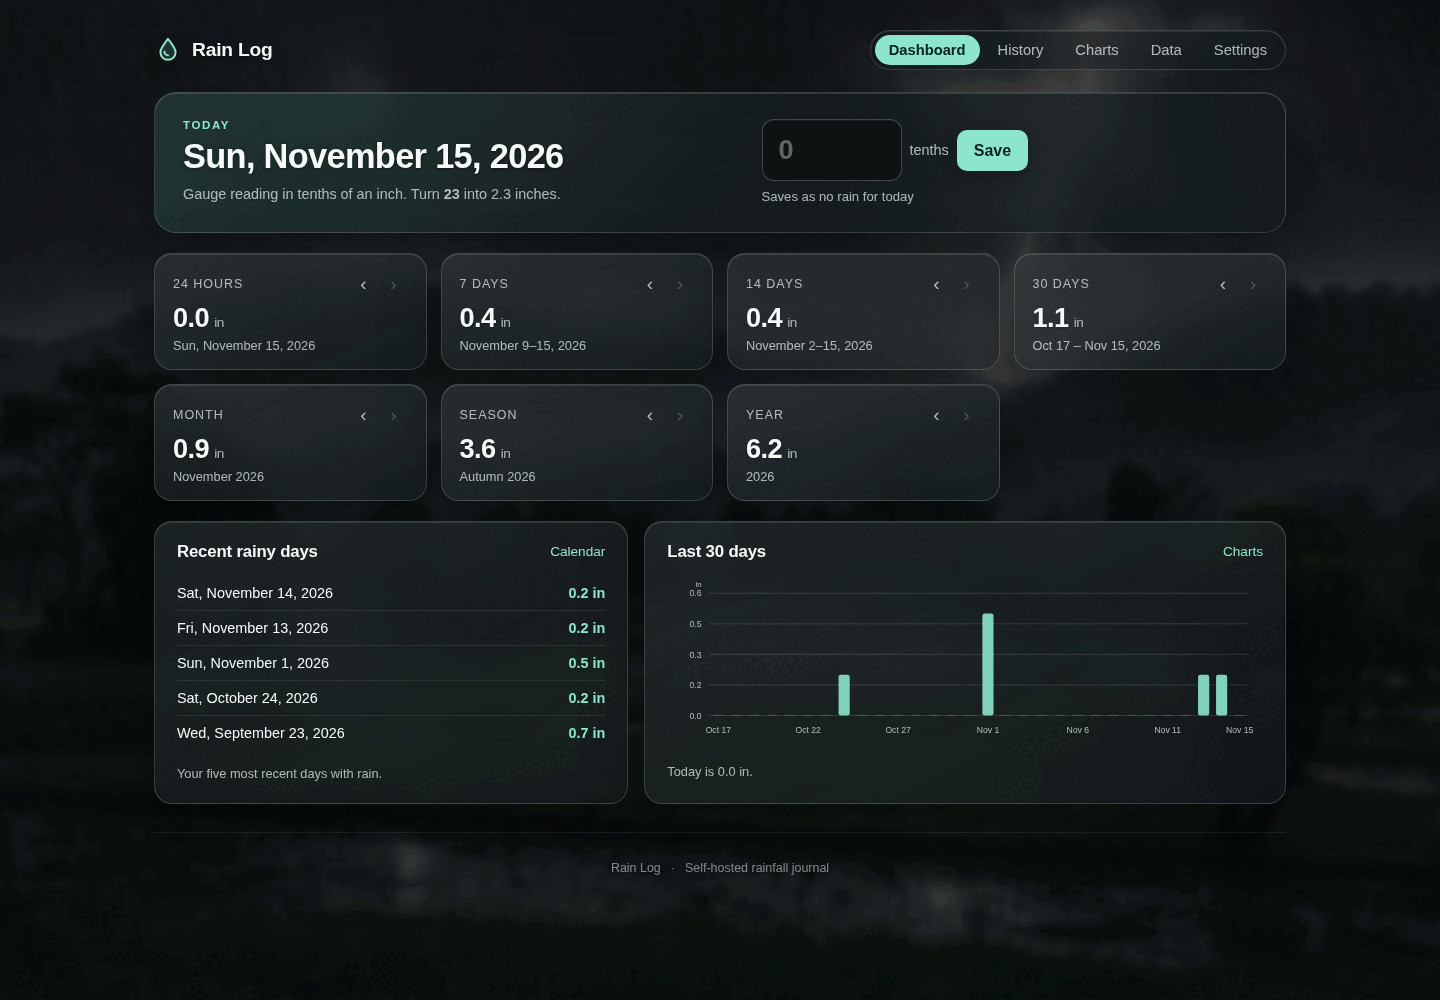
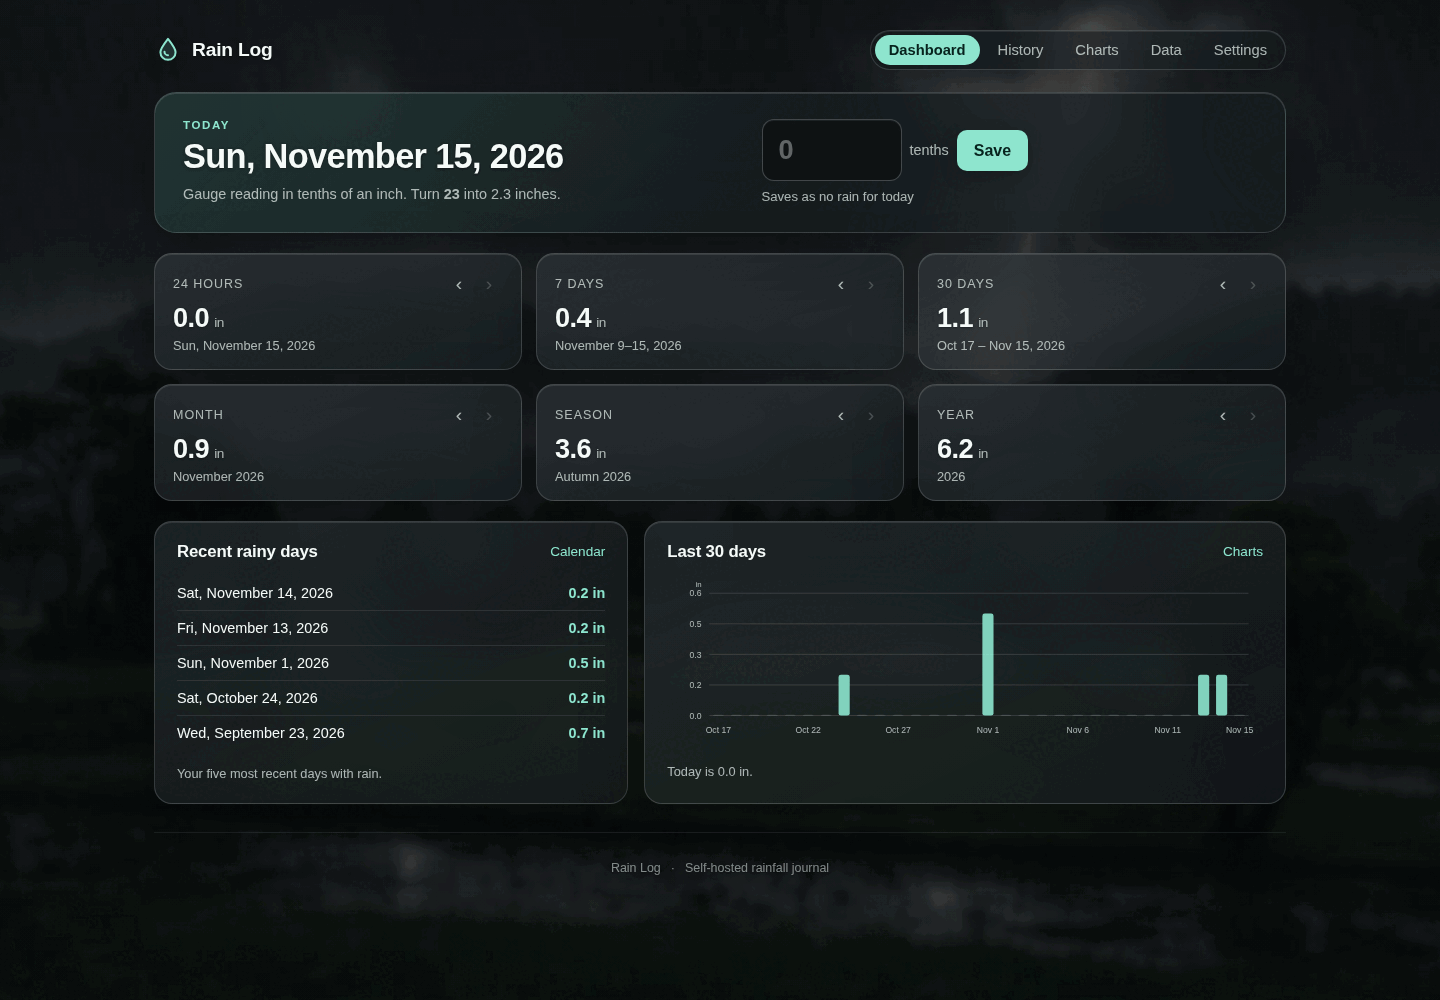
Default to one dashboard window and balance the stats grid
- Default dashboard windows are now a single 30-day window, so the
  dashboard shows two even rows of three cards
- Dashboard totals use a three-column grid on desktop and two columns
  on phones
- Report a 1.0.0 version for local compose builds

diff --git a/web/src/pages/Dashboard.tsx b/web/src/pages/Dashboard.tsx
@@ -38,7 +38,7 @@ export function Dashboard() {
   const state = stateQuery.data
   const entries = useMemo(() => state?.entries ?? {}, [state])
   const units = state?.prefs.units ?? 'in'
-  const windows = state?.prefs.windows ?? [14, 30]
+  const windows = state?.prefs.windows ?? [30]
   const today = dateKey(new Date())
   const currentToday = entries[today]
   const { draft, setDraft, inputRef } = useEntryDraft(today, currentToday)

diff --git a/web/src/pages/Settings.tsx b/web/src/pages/Settings.tsx
@@ -24,7 +24,7 @@ export function Settings() {
   const { notify } = useToast()
 
   const [units, setUnits] = useState<Units>('in')
-  const [windows, setWindows] = useState<string[]>(['14', '30'])
+  const [windows, setWindows] = useState<string[]>(['30'])
   const [locality, setLocality] = useState('')
   const [initialized, setInitialized] = useState(false)
   const [climateInitialized, setClimateInitialized] = useState(false)

diff --git a/server/test/api.test.ts b/server/test/api.test.ts
@@ -58,7 +58,7 @@ describe('API', () => {
     const state = await getState()
     expect(state.entries).toEqual({})
     expect(state.parseError).toBeNull()
-    expect(state.prefs).toEqual({ version: 1, units: 'in', windows: [14, 30] })
+    expect(state.prefs).toEqual({ version: 1, units: 'in', windows: [30] })
     expect(state.conflicts).toEqual([])
   })
 

diff --git a/server/src/storage.ts b/server/src/storage.ts
@@ -145,7 +145,7 @@ export class NotFoundError extends Error {
   }
 }
 
-export const DEFAULT_PREFS: Preferences = { version: 1, units: 'in', windows: [14, 30] }
+export const DEFAULT_PREFS: Preferences = { version: 1, units: 'in', windows: [30] }
 
 const prefsSchema = z.object({
   version: z.literal(1).optional(),

diff --git a/web/src/styles.css b/web/src/styles.css
@@ -385,7 +385,7 @@ textarea:focus-visible {
 
 .stats-grid {
   display: grid;
-  grid-template-columns: repeat(4, minmax(0, 1fr));
+  grid-template-columns: repeat(3, minmax(0, 1fr));
   gap: 14px;
 }
 

diff --git a/README.md b/README.md
@@ -127,7 +127,7 @@ Snapshots live in `.rainlog-backups/`. One is taken at most hourly while in use,
 
 ![Charts](screenshots/charts.png)
 
-Seasons are meteorological: December–February, March–May, June–August, September–November. Weeks are the last seven calendar days including today. Dashboard windows are set in Settings: one to three lengths from 1 to 365 days, defaulting to 14 and 30. All period math runs in the browser using explicit date keys, so the container’s timezone cannot shift “today” relative to the plugin.
+Seasons are meteorological: December–February, March–May, June–August, September–November. Weeks are the last seven calendar days including today. Dashboard windows are set in Settings: one to three lengths from 1 to 365 days, defaulting to a single 30-day window. All period math runs in the browser using explicit date keys, so the container’s timezone cannot shift “today” relative to the plugin.
 
 ### Local climate comparison
 
